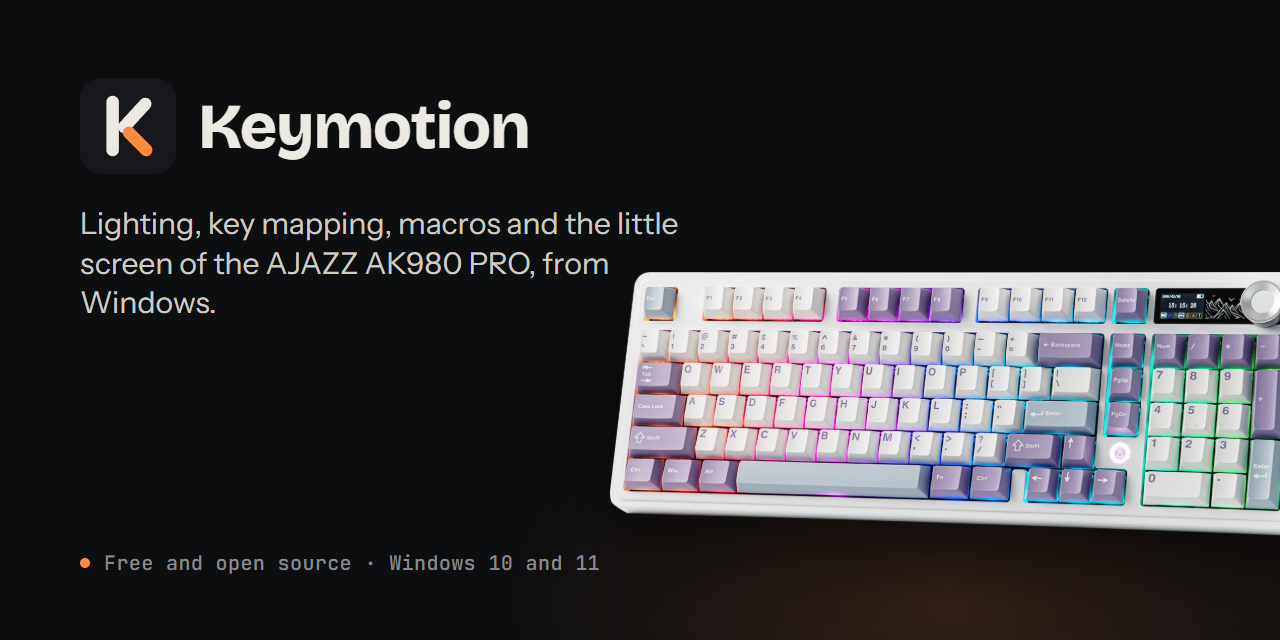
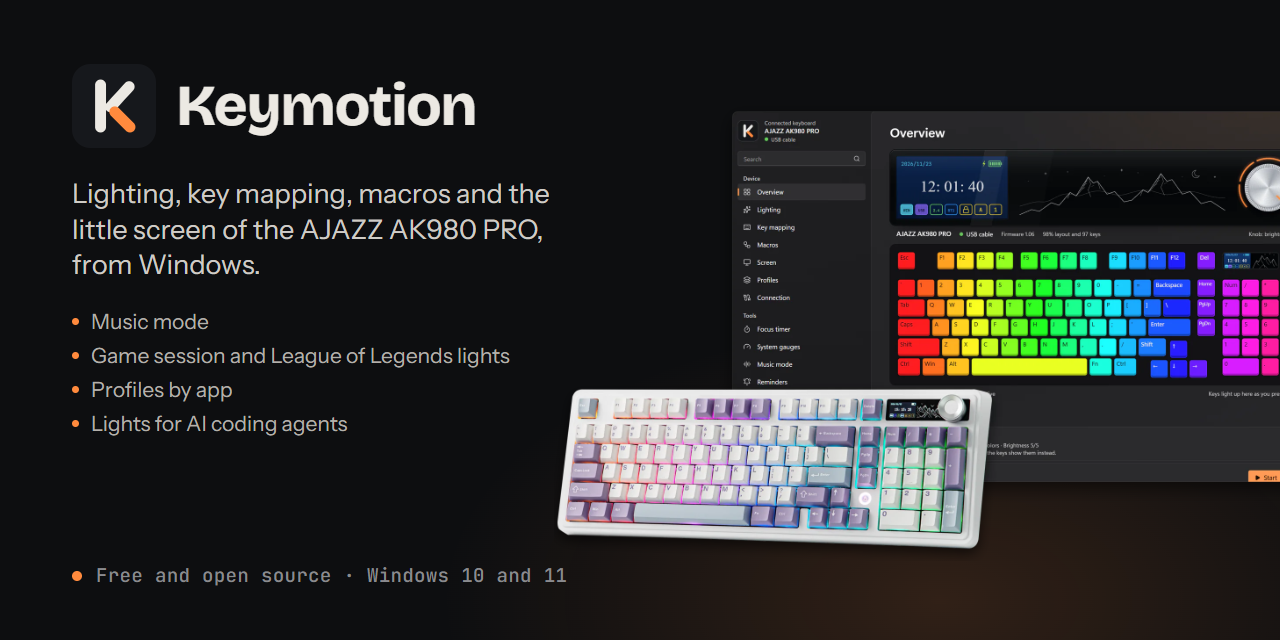
Social preview in the new design, with the 1.2.0 tools
social.mjs draws the card with the README's main picture (the Overview
page in the new design, the keyboard in front of it) and lists music mode,
the game session with League of Legends lights, profiles by app and the
lights for AI coding agents. It writes both copies: docs/images for
GitHub's social preview (uploaded by hand in the repository settings) and
the site's share picture. The share picture's description follows; the
site README says most screenshots now come from the real app.

diff --git a/site/README.md b/site/README.md
@@ -66,13 +66,13 @@ With the 2.4 GHz receiver or Bluetooth, this page is locked.
 
 ## Screenshots
 
-`<Screenshot name="…" alt="…" />` shows `src/assets/screens/<lang>/light/<name>.webp` in the light theme and `…/dark/<name>.webp` in the dark theme. The shots are taken by `tools/screenshots` from the app's development build with a stand-in keyboard and sample data, so they can be retaken whenever the app changes. Shots are taken in English and in the dark theme only: pages in the other languages and the light theme show the same picture, unless a shot in that language or a light one exists. Until a shot exists, the page shows a labelled placeholder.
+`<Screenshot name="…" alt="…" />` shows `src/assets/screens/<lang>/light/<name>.webp` in the light theme and `…/dark/<name>.webp` in the dark theme. The shots are taken by `tools/screenshots`: most from the real app (`capture.mjs`, which refuses every write to the keyboard's memory while it runs), the rest from the app's development build with a stand-in keyboard and sample data (`shoot.mjs`), so they can be retaken whenever the app changes. `capture-list.mjs` lists every shot and how it is taken. Shots are taken in English and in the dark theme only: pages in the other languages and the light theme show the same picture, unless a shot in that language or a light one exists. Until a shot exists, the page shows a labelled placeholder.
 
 ## Search engines and AI assistants
 
 - **Titles and descriptions.** Every page has a `description` in its front matter: one or two sentences that say what the page answers, with the keyboard's name where it fits. Search results and AI assistants show it.
 - **Home pages.** Each language's `index.mdx` sets its own `<title>` and Open Graph title (otherwise it would be "Keymotion | Keymotion") and carries a JSON-LD `SoftwareApplication` description of the app. When the app gains or loses a main feature, update its `featureList` in every language.
-- **Share picture.** `public/images/social-preview.png` (made by `tools/screenshots/social.mjs`) shows when a link to any page is shared. It is set in `astro.config.mjs`.
+- **Share picture.** `public/images/social-preview.png` (made by `tools/screenshots/social.mjs`, with the same file in `docs/images` for the repository's social preview) shows when a link to any page is shared. It and its description are set in `astro.config.mjs`.
 - **AI assistants.** `starlight-llms-txt` writes `/keymotion/llms.txt`, `llms-full.txt` and `llms-small.txt` from the English pages. Its summary is in `astro.config.mjs`.
 - **Sitemap and IndexNow.** Starlight writes `sitemap-index.xml`. After each publish, `pages.yml` sends the changed pages to IndexNow (`tools/site/indexnow.mjs`).
 - **The host root.** `robots.txt`, the IndexNow key file and the root page that sends visitors here live in the [cebersaban44-rgb.github.io](https://github.com/cebersaban44-rgb/cebersaban44-rgb.github.io) repository, because search engines read them only at the root of the host.
